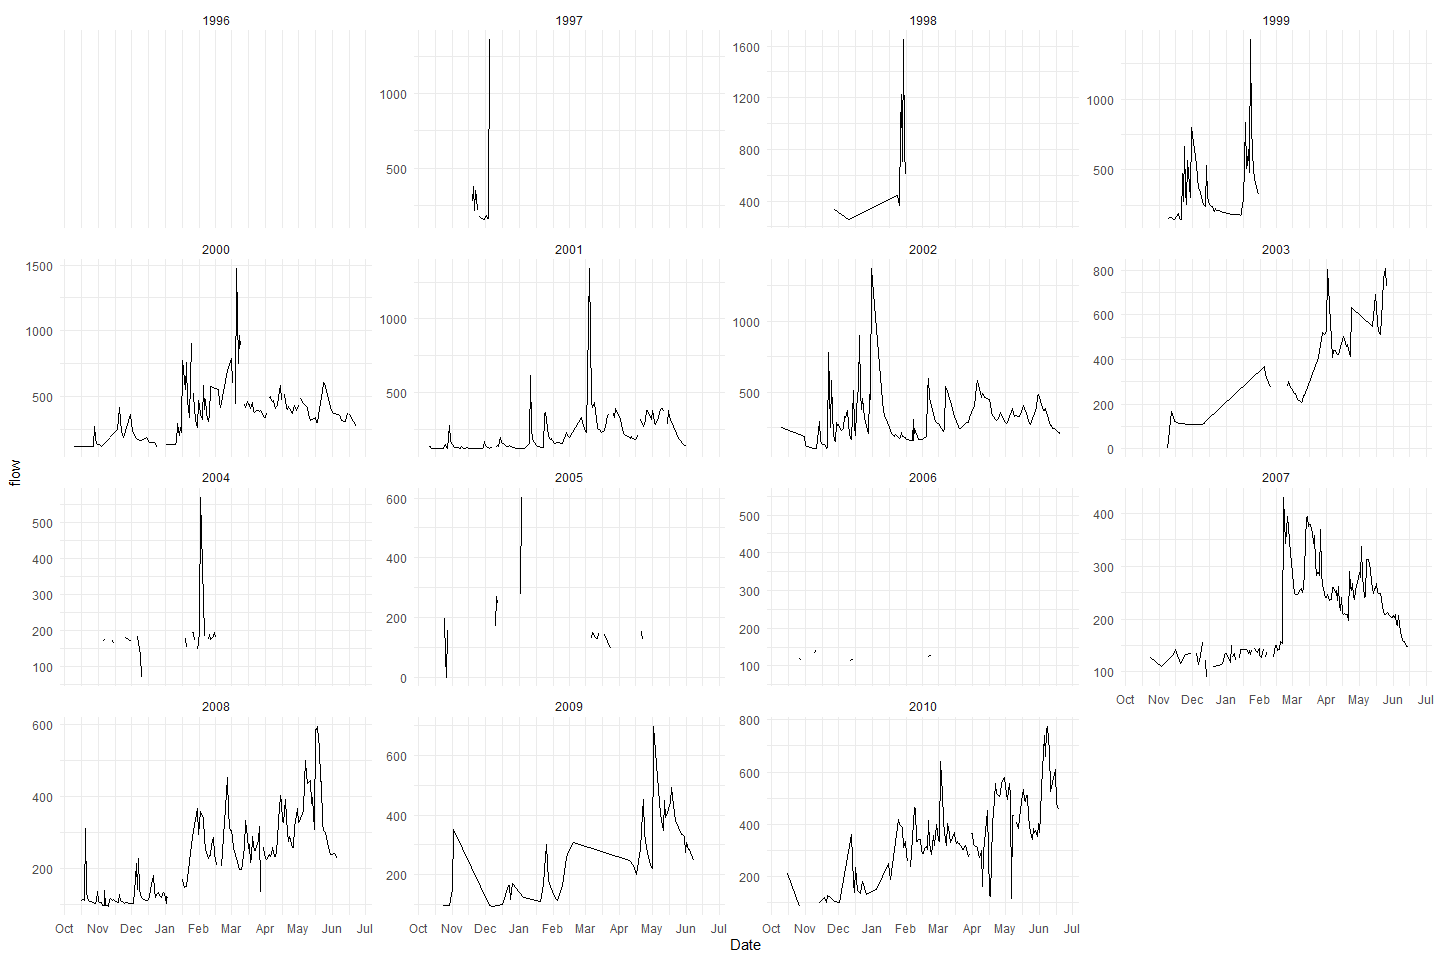
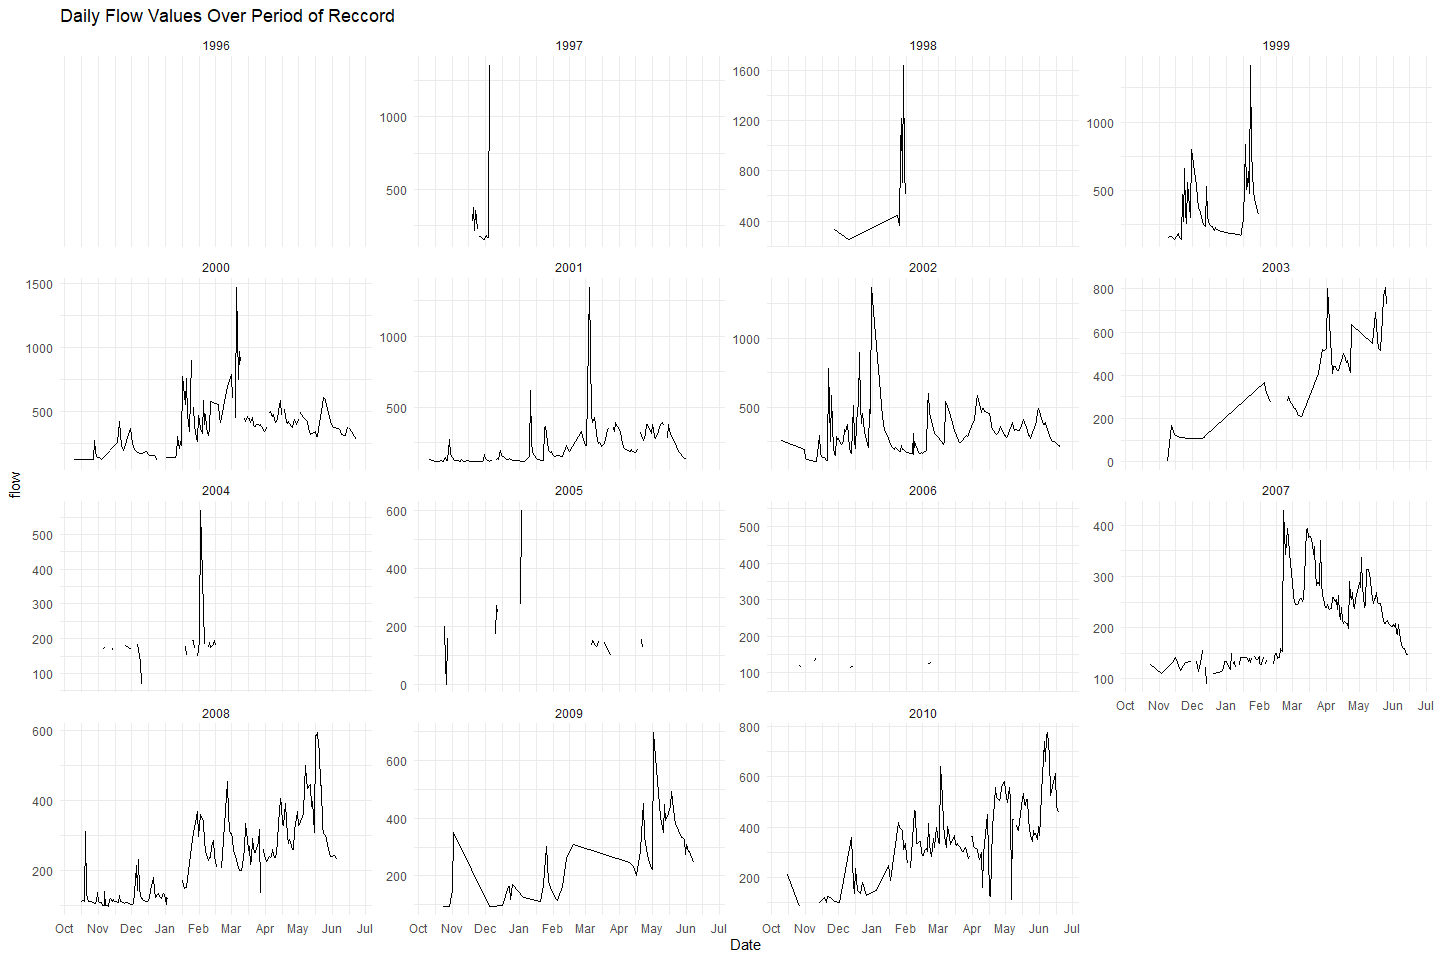
Edits to mill creek rst based on PR

diff --git a/scripts/rst/mill-creek/mill_creek_rst_qc.md b/scripts/rst/mill-creek/mill_creek_rst_qc.md
@@ -165,7 +165,7 @@ cleaner_rst_data  %>%
   ggplot(aes(x = year, y = total_yearly_catch)) + 
   geom_col() + 
   theme_minimal() +
-  labs(title = "Total Fish Counted each Year by run",
+  labs(title = "Total Fish Counted each Year",
        y = "Total fish raw catch") + 
   theme(text = element_text(size = 18),
         axis.text.x = element_text(angle = 90, vjust = 0.5, hjust=1)) 
@@ -240,6 +240,8 @@ cleaner_rst_data %>%
 
 ![](mill_creek_rst_qc_files/figure-gfm/unnamed-chunk-11-1.png)<!-- -->
 
+0 weight values are likely NA.
+
 **Numeric Summary of weight over Period of Record**
 
 ``` r
@@ -307,7 +309,8 @@ cleaner_rst_data %>%
   ggplot(aes(x = fake_date, y = flow)) +
   scale_x_date(date_breaks = "1 month", date_labels = "%b") +
   geom_line(size = 0.5) +
-  xlab("Date") +
+  labs(x = "Date", 
+       title = "Daily Flow Values Over Period of Reccord") +
   facet_wrap(~wy, scales = "free_y") + 
   theme_minimal()
 ```
@@ -366,6 +369,9 @@ summary(cleaner_rst_data$time_for_10_revolutions)
 -   29 % of values in the `time_for_10_revolutions` column are NA.
 
 ### Variable: `tubs_of_debris`
+
+Do not know how to characterize one tub. Need additional clarity on
+units here.
 
 **Plotting Debris**
 
@@ -565,20 +571,6 @@ cleaner_rst_data %>% select_if(is.character) %>% colnames()
     ## [1] "location"            "trap_condition_code" "weather"            
     ## [4] "comments"
 
-### Variable: `location`
-
-``` r
-table(cleaner_rst_data$location) 
-```
-
-    ## 
-    ## Mill Creek RSTR 
-    ##           25529
-
-**NA and Unknown Values**
-
--   0 % of values in the `location` column are NA.
-
 ### Variable: `trap_condition_code`
 
 Code describing trap condition.
@@ -675,6 +667,7 @@ unique(cleaner_rst_data$comments)[1:5]
 
 -   Lots of sampling gaps
 -   Some funky values in weather and condition code, converted to NA
+-   Some 0 weight values we may want to correct to NA
 
 ## Save cleaned data back to google cloud
 
